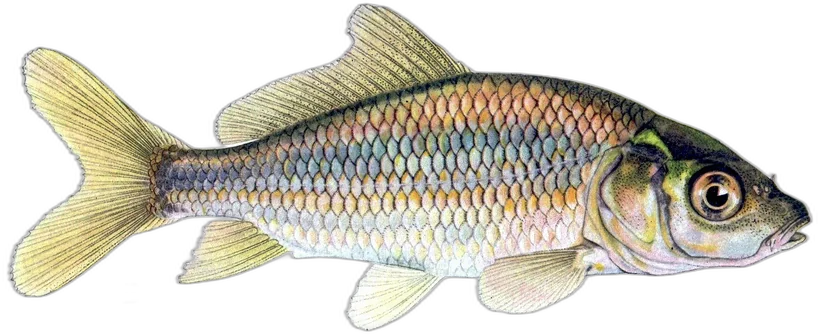
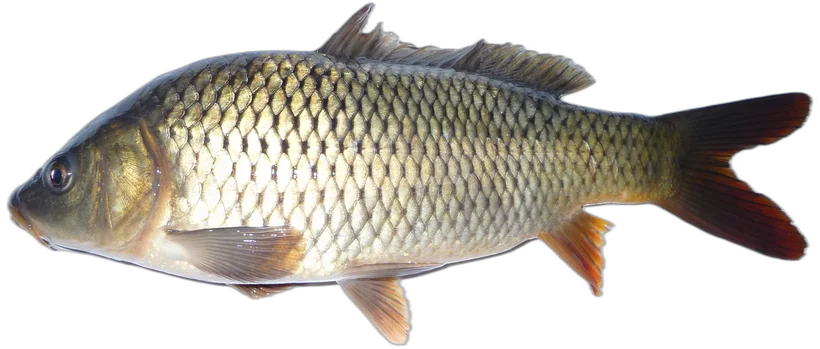
Hintergrund-Fische: Karpfen & Wels durch echte CC-BY-SA-Fotos ersetzt
Damit sind alle sechs Hintergrund-Fische echte Fotos:
- Karpfen (George Chernilevsky, CC BY-SA 3.0) statt gemalter PD-Tafel
- Wels (Bernard Dupont, CC BY-SA 2.0) statt Präparat-Aufnahme
- beide freigestellt (rembg), nach rechts ausgerichtet, als WebP optimiert
- sichtbare Namensnennung im Impressum ergänzt (CC-BY-SA-Pflicht)
- CREDITS.md aktualisiert, WaterScene-Kommentar angepasst

diff --git a/src/pages/Impressum.jsx b/src/pages/Impressum.jsx
@@ -128,6 +128,19 @@ export default function Impressum() {
                 <p>
                   Wir sind nicht bereit oder verpflichtet, an Streitbeilegungsverfahren vor einer Verbraucherschlichtungsstelle teilzunehmen.
                 </p>
+
+                <h2 className="text-cyan-400 drop-shadow-[0_0_8px_rgba(34,211,238,0.6)]">
+                  Bildnachweise
+                </h2>
+                <p>
+                  Die animierten Fische im App-Hintergrund sind freigestellte Fotos von
+                  Wikimedia Commons. Karpfen: George Chernilevsky,{' '}
+                  <a href="https://creativecommons.org/licenses/by-sa/3.0" target="_blank" rel="noopener noreferrer" className="text-cyan-400 hover:underline">CC BY-SA 3.0</a>;
+                  Wels: Bernard Dupont,{' '}
+                  <a href="https://creativecommons.org/licenses/by-sa/2.0" target="_blank" rel="noopener noreferrer" className="text-cyan-400 hover:underline">CC BY-SA 2.0</a>{' '}
+                  (freigestellt und zugeschnitten; bearbeitete Bilder stehen unter derselben Lizenz).
+                  Barsch, Forelle, Hecht und Zander: gemeinfrei (Public Domain).
+                </p>
               </div>
             </div>
           ) : (

diff --git a/src/components/home/WaterScene.jsx b/src/components/home/WaterScene.jsx
@@ -7,8 +7,9 @@ import React, { useState } from 'react';
 // verlassen hat, schwimmt die nächste Art herein (Karpfen → Barsch → Forelle
 // → Hecht → Zander → Wels → …). Rein dekorativ (pointer-events: none).
 //
-// Echte, freigestellte Fischfotos (Wikimedia Commons, alle PD/CC0 — Quellen &
-// Lizenzen siehe public/fish/CREDITS.md). Alle Motive blicken nach rechts; beim
+// Echte, freigestellte Fischfotos (Wikimedia Commons; Barsch/Forelle/Hecht/Zander
+// Public Domain, Karpfen & Wels CC-BY-SA mit Namensnennung im Impressum — Quellen
+// & Lizenzen siehe public/fish/CREDITS.md). Alle Motive blicken nach rechts; beim
 // Schwimmen nach links spiegelt .bb-fish-flip. WebP mit Alpha, je Datei < 80 KB.
 const FISH_SPECIES = [
   { id: 'carp', name: 'Karpfen', size: 1.0, image: '/fish/carp.webp' },

diff --git a/public/fish/CREDITS.md b/public/fish/CREDITS.md
@@ -1,17 +1,18 @@
 # Bildnachweise — Hintergrund-Fische (`public/fish/`)
 
 Die animierten Fische in der Unterwasser-Szene (`src/components/home/WaterScene.jsx`)
-sind freigestellte Fotos von **Wikimedia Commons**. Alle Motive stehen unter
-**Public Domain** oder **CC0** und erfordern damit keine Namensnennung — die Quellen
-sind hier dennoch zur Nachvollziehbarkeit dokumentiert.
+sind freigestellte Fotos von **Wikimedia Commons**.
 
-Bearbeitung: Hintergrund automatisch freigestellt (rembg), auf das Motiv
-zugeschnitten, einheitlich nach rechts ausgerichtet und als WebP (Alpha) optimiert.
+Bearbeitung: Hintergrund automatisch freigestellt (rembg), zugeschnitten,
+einheitlich nach rechts ausgerichtet, als WebP (Alpha) optimiert. Bei den
+CC-BY-SA-Motiven steht das **bearbeitete Bild unter derselben Lizenz**.
+
+Die sichtbare Namensnennung erfolgt zusätzlich im Impressum der App.
 
 ## Karpfen → `carp.webp`
-- Quelle: [Cyprinus carpio by Ellen Edmondson.jpg](https://commons.wikimedia.org/wiki/File%3ACyprinus_carpio_by_Ellen_Edmondson.jpg)
-- Urheber: Painting by Ellen Edmonson
-- Lizenz: Public domain
+- Quelle: [Cyprinus carpio 2008 G1 (cropped).jpg](https://commons.wikimedia.org/wiki/File%3ACyprinus_carpio_2008_G1_%28cropped%29.jpg)
+- Urheber: George Chernilevsky
+- Lizenz: CC BY-SA 3.0 (https://creativecommons.org/licenses/by-sa/3.0)
 
 ## Barsch → `perch.webp`
 - Quelle: [Perca fluviatilis 2008 G1.jpg](https://commons.wikimedia.org/wiki/File%3APerca_fluviatilis_2008_G1.jpg)
@@ -34,6 +35,6 @@ zugeschnitten, einheitlich nach rechts ausgerichtet und als WebP (Alpha) optimie
 - Lizenz: Public domain
 
 ## Wels → `catfish.webp`
-- Quelle: [Silurus glanis Linnaeus, 1758 2599925104.jpg](https://commons.wikimedia.org/wiki/File%3ASilurus_glanis_Linnaeus%2C_1758_2599925104.jpg)
-- Urheber: Naturalis Biodiversity Center
-- Lizenz: CC0
+- Quelle: [European Catfish (Silurus glanis) (13532570755).jpg](https://commons.wikimedia.org/wiki/File%3AEuropean_Catfish_%28Silurus_glanis%29_%2813532570755%29.jpg)
+- Urheber: Bernard DUPONT from FRANCE
+- Lizenz: CC BY-SA 2.0 (https://creativecommons.org/licenses/by-sa/2.0)
